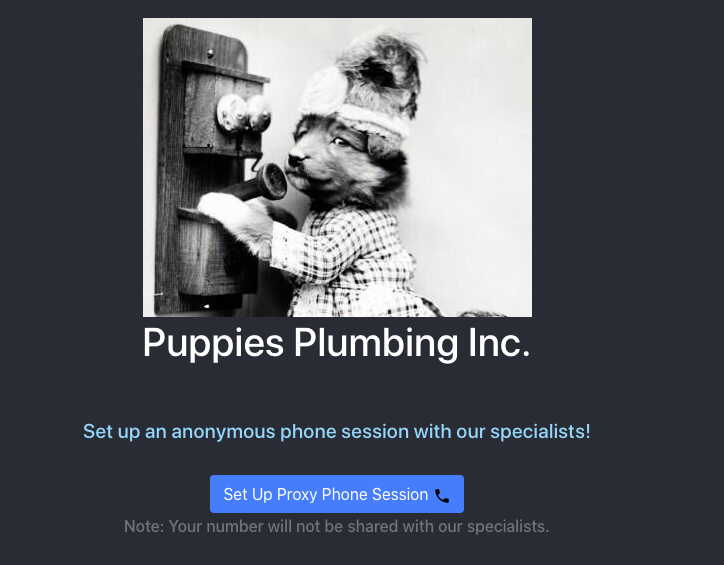
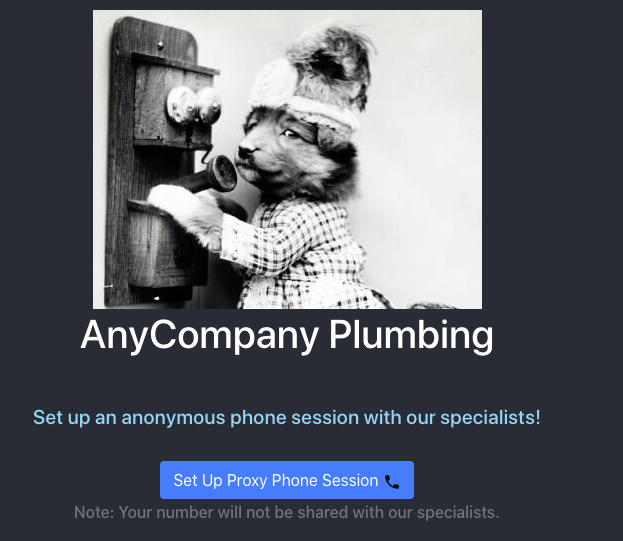
adding fictitious names and numbers

Changed region(s): [[0.122, 0.0, 0.7929, 0.6802], [0.122, 0.8281, 0.7929, 0.976], [0.061, 0.7394, 0.8539, 0.7985]]

diff --git a/chimeproxy-frontend/src/components/App.js b/chimeproxy-frontend/src/components/App.js
@@ -52,7 +52,7 @@ class App extends React.Component {
       {/* FORM */}
         {!this.state.isLoading && !this.state.isResult && this.state.errorMessage === null && (
           <div>
-          <Header companyName="Puppies Plumbing Inc."></Header>
+          <Header companyName="AnyCompany Plumbing"></Header>
           <Form onSubmit={this.handleSubmit}></Form>
           </div>
           )
@@ -60,7 +60,7 @@ class App extends React.Component {
         {/* RESULTS */}
         {this.state.isResult && !this.state.isLoading && this.state.errorMessage === null && (
           <div>
-            <Header companyName="Puppies Plumbing Inc."></Header>
+            <Header companyName="AnyCompany Plumbing"></Header>
             <Result proxySession = {this.state.proxySession} resetPage={this.resetPage}/>
           </div>
         )}

diff --git a/chimeproxy-frontend/src/components/Result.js b/chimeproxy-frontend/src/components/Result.js
@@ -3,7 +3,7 @@ import React from 'react';
 const Result = props => {
   return(
     <div className="Result">
-        Here are the details of your phone session with Adam
+        Here are the details of your phone session with Nikki Wolf
         <h3>{props.proxySession.Participants[0].ProxyPhoneNumber}</h3>
         <button type="submit" className="btn btn-danger" onClick={props.resetPage}>Go Back</button>
     </div>
